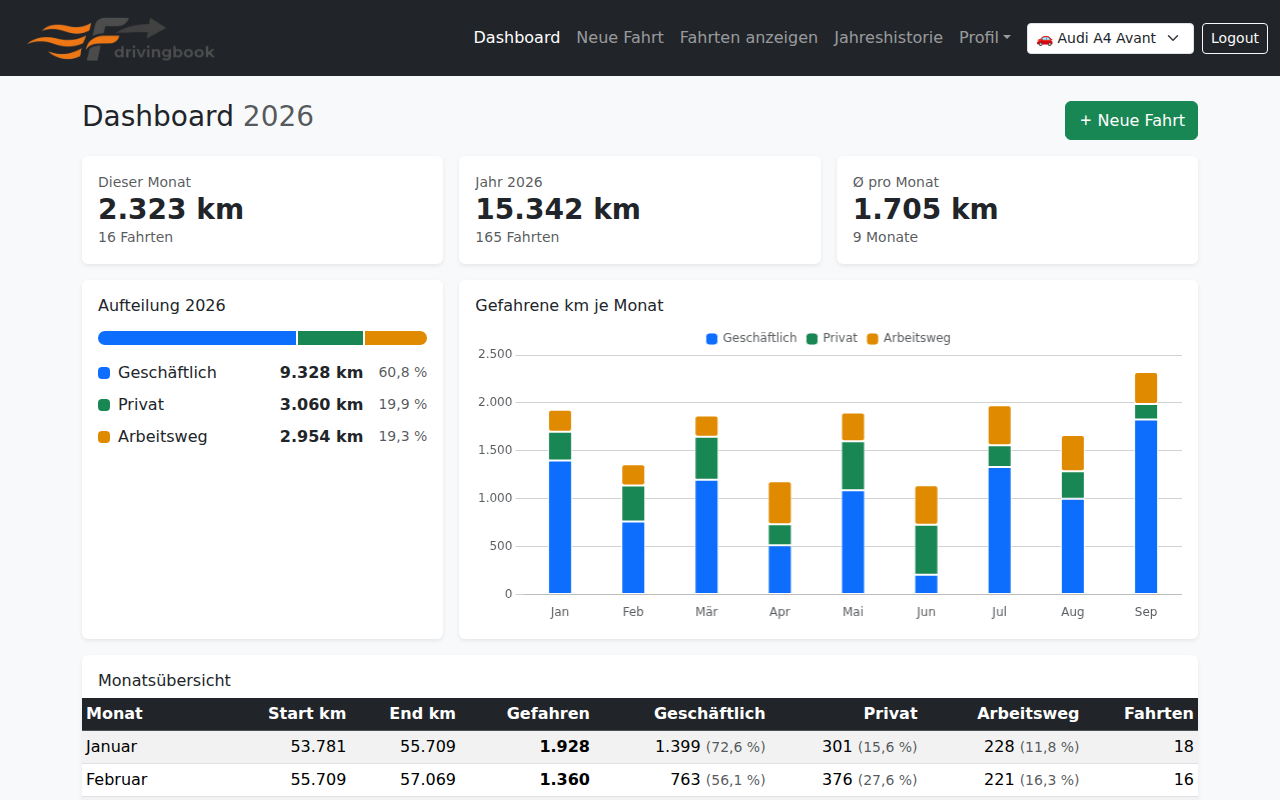
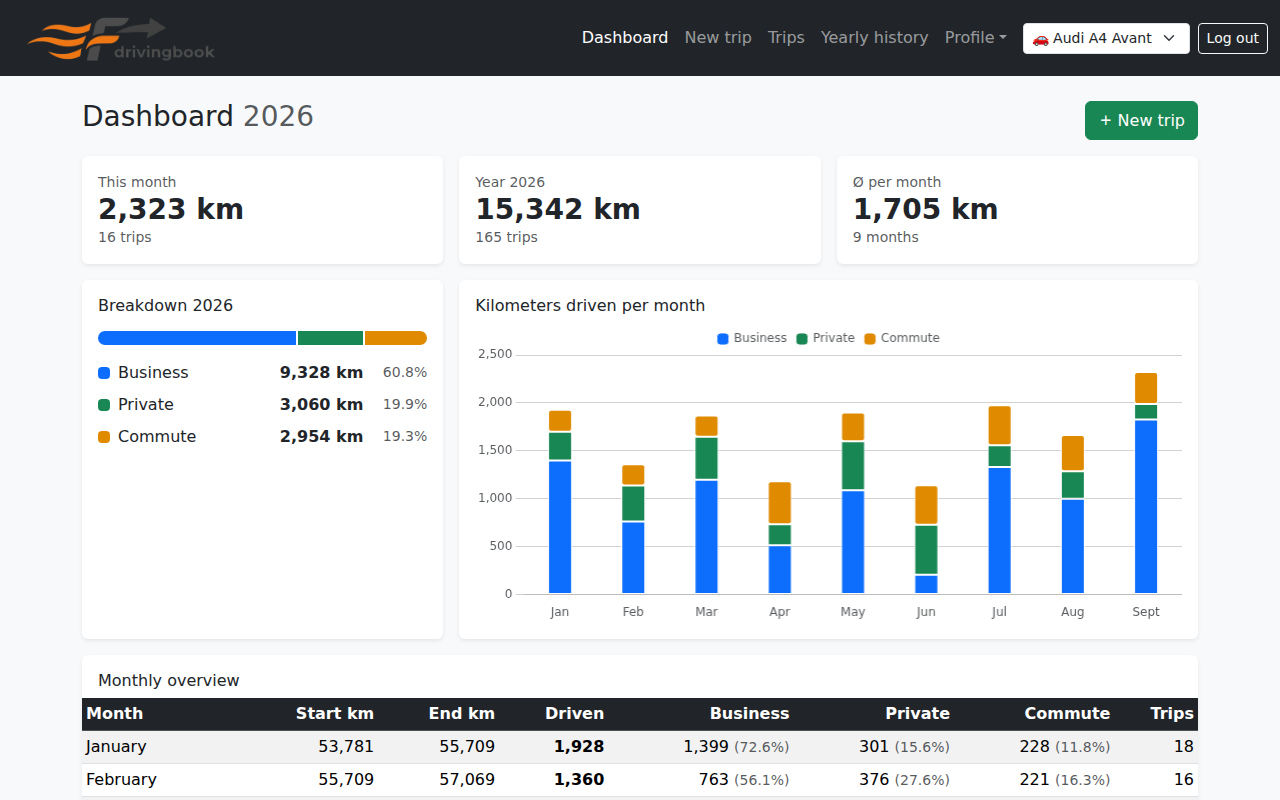
Prozentangaben je Sprache (12,3 % / 12.3%), GitHub-Page mit englischen Screenshots

diff --git a/e2e/screenshots/screenshots.spec.js b/e2e/screenshots/screenshots.spec.js
@@ -1,4 +1,4 @@
-// Erzeugt die Screenshots für docs/ mit Demo-Daten (Vorjahr + laufendes Jahr)
+// Erzeugt die Screenshots für docs/ (GitHub-Page, englisch) mit Demo-Daten (Vorjahr + laufendes Jahr)
 import { test, expect } from "@playwright/test";
 import path from "path";
 import { fileURLToPath } from "url";
@@ -14,10 +14,11 @@ const zufall = () => ((seed = (seed * 1103515245 + 12345) % 2 ** 31) / 2 ** 31);
 const eins   = liste => liste[Math.floor(zufall() * liste.length)];
 
 const KUNDEN = [
-  ["Stadtwerke Augsburg", 72], ["Bechtle AG, Neckarsulm", 238], ["Kunde Muster GmbH, Ingolstadt", 84],
-  ["Messe München", 21], ["Siemens Healthineers, Erlangen", 176], ["Schulung Nürnberg", 168],
+  ["Stadtwerke Augsburg", 72], ["Bechtle AG, Neckarsulm", 238], ["Sample Customer Ltd., Ingolstadt", 84],
+  ["Trade fair Munich", 21], ["Siemens Healthineers, Erlangen", 176], ["Training Nuremberg", 168],
 ];
-const PRIVAT = [["Einkauf", 9], ["Sport", 14], ["Eltern, Landshut", 76], ["Ausflug Tegernsee", 62], ["Baumarkt", 11]];
+const PRIVAT = [["Groceries", 9], ["Gym", 14], ["Parents, Landshut", 76], ["Trip to Tegernsee", 62], ["Hardware store", 11]];
+const BUERO  = "Office Munich";
 
 async function demoFahrten(user, vehicle, bisTag) {
   let km = 31480;
@@ -36,7 +37,7 @@ async function demoFahrten(user, vehicle, bisTag) {
         await post(tag, ziel, "business", Math.round(weg * 2 * (0.95 + zufall() * 0.1)));
       } else if (zufall() < 0.55) {
         tag.setUTCHours(6, 20 + Math.floor(zufall() * 40));
-        await post(tag, "Büro München", "commute", 36 + Math.round(zufall() * 3));
+        await post(tag, BUERO, "commute", 36 + Math.round(zufall() * 3));
       }
     } else if (zufall() < 0.45) {
       const [ziel, weg] = eins(PRIVAT);
@@ -62,7 +63,7 @@ test("Screenshots für die Projektseite", async ({ browser }) => {
   const gestern = new Date(); gestern.setUTCDate(gestern.getUTCDate() - 1);
   await demoFahrten(user, audi, gestern);
   let teslaKm = 12030;
-  for (const [i, [ziel, typ, strecke]] of [["Büro München", "commute", 37], ["Einkauf", "private", 18], ["Kunde Muster GmbH, Ingolstadt", "business", 168]].entries()) {
+  for (const [i, [ziel, typ, strecke]] of [[BUERO, "commute", 37], ["Groceries", "private", 18], ["Sample Customer Ltd., Ingolstadt", "business", 168]].entries()) {
     teslaKm += strecke;
     await api("/api/trips", { method: "POST", token: user.token, body: {
       odometer_km: teslaKm, destination: ziel, trip_type: typ,
@@ -77,7 +78,7 @@ test("Screenshots für die Projektseite", async ({ browser }) => {
   // ── Browser ────────────────────────────────────────────────
   async function seite({ mobil = false, dunkel = false } = {}) {
     const ctx = await browser.newContext({
-      baseURL: "http://localhost:8099", locale: "de-DE", timezoneId: "Europe/Berlin",
+      baseURL: "http://localhost:8099", locale: "en-GB", timezoneId: "Europe/Berlin",
       colorScheme: dunkel ? "dark" : "light",
       ...(mobil ? { viewport: { width: 390, height: 844 }, deviceScaleFactor: 2, isMobile: true, hasTouch: true }
                 : { viewport: { width: 1280, height: 800 } }),
@@ -96,18 +97,17 @@ test("Screenshots für die Projektseite", async ({ browser }) => {
 
   const desktop = await seite();
   await foto(desktop, "/index.html",   "dashboard.png");
-  await foto(desktop, "/view.html",    "fahrten.png");
-  await foto(desktop, "/history.html", "jahreshistorie.png", { ganz: true });
-  await foto(desktop, "/auto.html",    "auto-info.png", { ganz: true });
-  await foto(desktop, "/profile.html", "konto.png");
+  await foto(desktop, "/view.html",    "trips.png");
+  await foto(desktop, "/history.html", "yearly-history.png", { ganz: true });
+  await foto(desktop, "/auto.html",    "vehicle-info.png", { ganz: true });
+  await foto(desktop, "/profile.html", "account.png");
 
   const dunkel = await seite({ dunkel: true });
-  await foto(dunkel, "/index.html", "dashboard-dunkel.png");
+  await foto(dunkel, "/index.html", "dashboard-dark.png");
 
   const mobil = await seite({ mobil: true });
-  await foto(mobil, "/driving.html", "neue-fahrt-mobil.png");
-  await foto(mobil, "/index.html",   "dashboard-mobil.png");
-  await foto(mobil, "/view.html",    "fahrten-mobil.png");
+  await foto(mobil, "/driving.html", "new-trip-mobile.png");
+  await foto(mobil, "/index.html",   "dashboard-mobile.png");
 
   expect(true).toBe(true);
 });

diff --git a/docs/index.html b/docs/index.html
@@ -281,7 +281,7 @@
 
   <section class="wrap">
     <h2>Screenshots</h2>
-    <p class="section-intro">Taken from the app with demo data. Click an image to see it at full size.</p>
+    <p class="section-intro">Taken from the app with demo data (English interface). Click an image to see it at full size.</p>
 
     <div class="tour-item">
       <div class="text">
@@ -297,11 +297,11 @@
       </div>
       <div class="phones">
         <figure>
-          <a href="img/neue-fahrt-mobil.png"><img src="img/neue-fahrt-mobil.png" alt="New trip on a phone" loading="lazy" width="390" height="844"></a>
+          <a href="img/new-trip-mobile.png"><img src="img/new-trip-mobile.png" alt="New trip on a phone" loading="lazy" width="390" height="844"></a>
           <figcaption>New trip</figcaption>
         </figure>
         <figure>
-          <a href="img/dashboard-mobil.png"><img src="img/dashboard-mobil.png" alt="Dashboard on a phone" loading="lazy" width="390" height="844"></a>
+          <a href="img/dashboard-mobile.png"><img src="img/dashboard-mobile.png" alt="Dashboard on a phone" loading="lazy" width="390" height="844"></a>
           <figcaption>Dashboard on mobile</figcaption>
         </figure>
       </div>
@@ -319,7 +319,7 @@
         </ul>
       </div>
       <figure>
-        <a href="img/fahrten.png"><img src="img/fahrten.png" alt="Trips of a month" loading="lazy" width="1280" height="800"></a>
+        <a href="img/trips.png"><img src="img/trips.png" alt="Trips of a month" loading="lazy" width="1280" height="800"></a>
         <figcaption>Trips of a month, editable in place</figcaption>
       </figure>
     </div>
@@ -331,7 +331,7 @@
           table with shares per trip type. Print-ready, with CSV export right next to it.</p>
       </div>
       <figure class="tall">
-        <a href="img/jahreshistorie.png"><img src="img/jahreshistorie.png" alt="Yearly history of the previous year" loading="lazy" width="1280" height="1232"></a>
+        <a href="img/yearly-history.png"><img src="img/yearly-history.png" alt="Yearly history of the previous year" loading="lazy" width="1280" height="1232"></a>
         <figcaption>Yearly history (excerpt)</figcaption>
       </figure>
     </div>
@@ -350,7 +350,7 @@
         <p>A simplified estimate, not tax advice.</p>
       </div>
       <figure class="tall">
-        <a href="img/auto-info.png"><img src="img/auto-info.png" alt="Vehicle info with key figures, check and tax comparison" loading="lazy" width="1280" height="2089"></a>
+        <a href="img/vehicle-info.png"><img src="img/vehicle-info.png" alt="Vehicle info with key figures, check and tax comparison" loading="lazy" width="1280" height="2089"></a>
         <figcaption>Vehicle info (excerpt; click for the full page)</figcaption>
       </figure>
     </div>
@@ -367,7 +367,7 @@
         </ul>
       </div>
       <figure>
-        <a href="img/konto.png"><img src="img/konto.png" alt="Account page with backup" loading="lazy" width="1280" height="800"></a>
+        <a href="img/account.png"><img src="img/account.png" alt="Account page with backup" loading="lazy" width="1280" height="800"></a>
         <figcaption>Account with backup status</figcaption>
       </figure>
     </div>
@@ -379,7 +379,7 @@
           charts are tuned for both modes; printing is always light.</p>
       </div>
       <figure>
-        <a href="img/dashboard-dunkel.png"><img src="img/dashboard-dunkel.png" alt="Dashboard in dark mode" loading="lazy" width="1280" height="800"></a>
+        <a href="img/dashboard-dark.png"><img src="img/dashboard-dark.png" alt="Dashboard in dark mode" loading="lazy" width="1280" height="800"></a>
         <figcaption>Dashboard in dark mode</figcaption>
       </figure>
     </div>

diff --git a/frontend/js/auto.js b/frontend/js/auto.js
@@ -7,7 +7,7 @@ const $ = id => document.getElementById(id);
 const euro    = n => n.toLocaleString(i18n.locale, { style: "currency", currency: "EUR" });
 const km      = n => `${n.toLocaleString(i18n.locale)} km`;
 const prozent = (anteil, stellen = 1) =>
-  `${(anteil * 100).toLocaleString(i18n.locale, { maximumFractionDigits: stellen })} %`;
+  prozentText(anteil * 100, stellen);
 const datum   = d => new Date(d).toLocaleDateString(i18n.locale);
 
 // Leere Zahlenfelder → null
@@ -128,7 +128,7 @@ function zeigeVergleich({ vehicle, costs: kosten, year_totals: jahr, comparison:
   hinweis.classList.add("d-none");
 
   // 1-%-Regel
-  const satz = `${vg.rate.toLocaleString(i18n.locale)} %`;
+  const satz = prozentText(vg.rate, 3);
   $("vgPauschalSumme").textContent = euro(vg.flat_rate.total);
   $("vgPauschalDetail").innerHTML = [
     tHtml("auto.compare.flatRateDetail", { count: Number(kosten.months), rate: satz, price: euro(vg.list_price), result: euro(vg.flat_rate.private_use) }),

diff --git a/frontend/js/auswertung.js b/frontend/js/auswertung.js
@@ -16,7 +16,7 @@ const kmText   = n => `${(n ?? 0).toLocaleString(i18n.locale)} km`;
 const zahl     = n => (n ?? 0).toLocaleString(i18n.locale);
 // „3 Fahrten“ (Zahl formatiert, Einzahl/Mehrzahl über i18n)
 const fahrtenText = n => t("analysis.trips", { count: n ?? 0, n: zahl(n) });
-const anteil   = (teil, ganz) => (ganz > 0 ? `${((teil / ganz) * 100).toLocaleString(i18n.locale, { maximumFractionDigits: 1 })} %` : "–");
+const anteil   = (teil, ganz) => (ganz > 0 ? prozentText((teil / ganz) * 100) : "–");
 const monatsFormat = art => new Intl.DateTimeFormat(i18n.locale, { month: art });
 const monatLang = monat => monatsFormat("long").format(new Date(`${monat}-01T12:00:00`));
 const monatKurz = monat => monatsFormat("short").format(new Date(`${monat}-01T12:00:00`));

diff --git a/frontend/auto.html b/frontend/auto.html
@@ -173,7 +173,7 @@
               <div class="progress-bar bg-success" id="vgBreakEvenZone"></div>
               <div class="marker" id="vgPrivatMarker" title="Dein Privatanteil" data-i18n-attr="title:auto.compare.yourShare"></div>
             </div>
-            <div class="d-flex justify-content-between small text-muted mt-1"><span data-i18n="auto.compare.scaleStart">0 % privat</span><span>100 %</span></div>
+            <div class="d-flex justify-content-between small text-muted mt-1"><span data-i18n="auto.compare.scaleStart">0 % privat</span><span data-i18n="auto.compare.scaleEnd">100 %</span></div>
           </div>
         </div>
 

diff --git a/frontend/js/config.js b/frontend/js/config.js
@@ -81,6 +81,10 @@ function fahrtartBadge(wert) {
   return `<span class="badge text-bg-${a.farbe} card-badge">${escapeHtml(a.label)}</span>`;
 }
 
+// Prozentangabe in der Schreibweise der Sprache ("12,3 %" bzw. "12.3%")
+const prozentText = (zahl, stellen = 1) =>
+  t("common.percent", { value: zahl.toLocaleString(i18n.locale, { maximumFractionDigits: stellen }) });
+
 // Füllt ein <select> mit "Automatisch" + allen Sprachen (in ihrer eigenen Schreibweise);
 // `beiAenderung` bekommt den Code oder null (= automatisch)
 function sprachAuswahl(select, beiAenderung, gewaehlt = i18n.gewaehlt()) {

diff --git a/e2e/screenshots.config.js b/e2e/screenshots.config.js
@@ -13,6 +13,6 @@ export default defineConfig({
   testDir: "./screenshots",
   reporter: "list",
   projects: [{ name: "screenshots", use: { browserName: "chromium", launchOptions: {
-    args: ["--lang=de-DE"], env: { ...process.env, LANGUAGE: "de_DE", LANG: "de_DE.UTF-8" },
+    args: ["--lang=en-GB"], env: { ...process.env, LANGUAGE: "en_GB", LANG: "en_GB.UTF-8" },
   }  } }],
 });

diff --git a/frontend/sw.js b/frontend/sw.js
@@ -8,7 +8,7 @@
 // CACHE setzt der Git-Hook (.githooks/pre-commit) automatisch auf die
 // Frontend-Version; neue Dateien in APP_SHELL eintragen.
 
-const CACHE = "fahrtenbuch-2026.09.26.14";
+const CACHE = "fahrtenbuch-2026.09.26.15";
 
 const APP_SHELL = [
   "./",

diff --git a/e2e/README.md b/e2e/README.md
@@ -22,7 +22,7 @@ Images werden nur gebaut, wenn sie bestehen.
 ## Screenshots für die Projektseite
 
 `screenshots/` ist kein Test, sondern erzeugt mit Demo-Daten (Vorjahr + laufendes Jahr)
-die Bilder für die GitHub-Page in `docs/img/`. Gleiche Umgebung wie oben:
+die Bilder für die GitHub-Page in `docs/img/` (englische Oberfläche). Gleiche Umgebung wie oben:
 
 ```bash
 DB_HOST=127.0.0.1 DB_PORT=5432 DB_NAME=fahrtenbuch_test \
